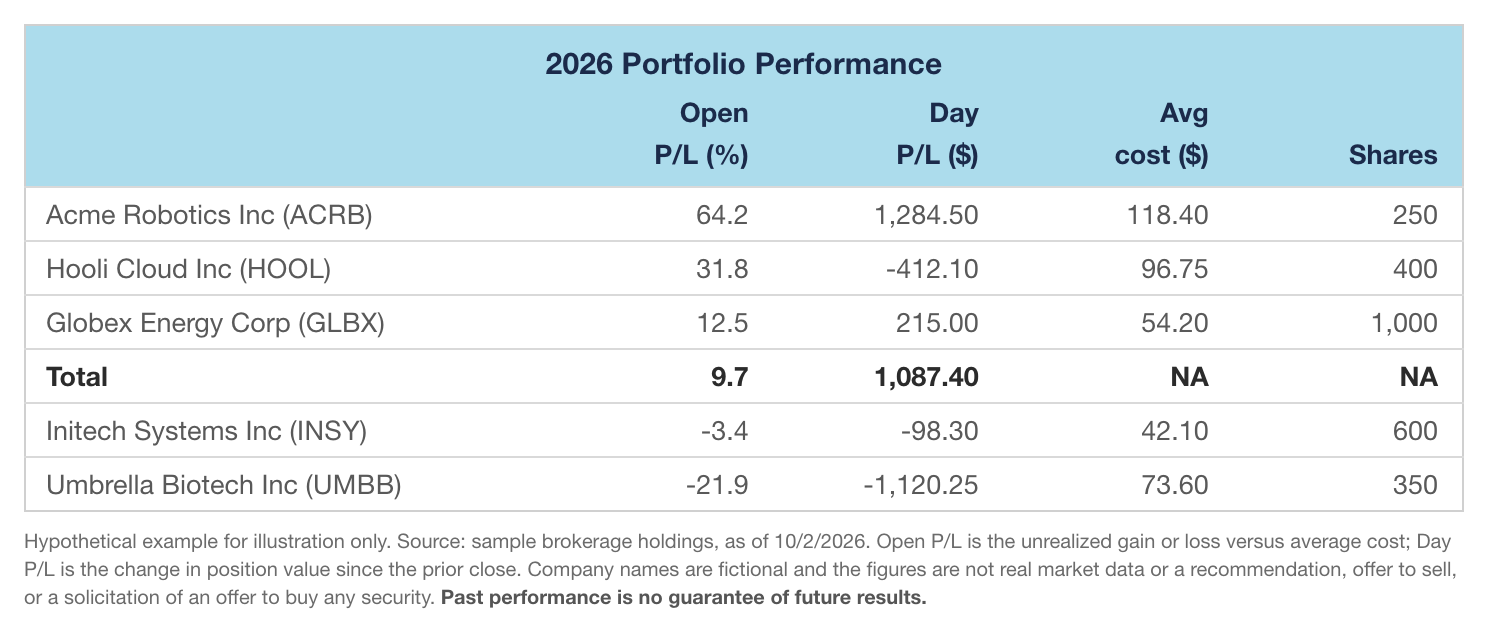
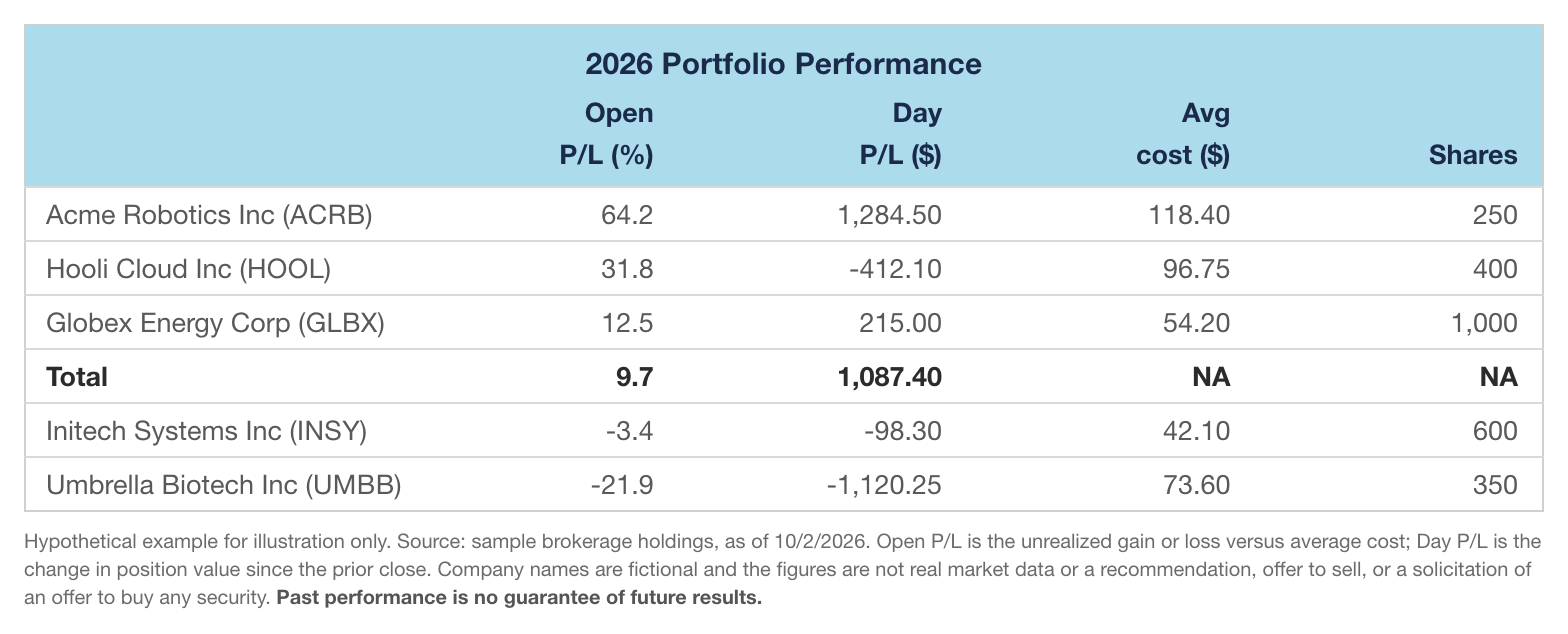
Widen table to 760px and rebalance columns so rank headers no longer collide
Columns 37/15/16 -> 30/13/19 (%); docs and examples updated.

diff --git a/examples/holdings_en.html b/examples/holdings_en.html
@@ -4,9 +4,9 @@ body { margin:0; background:#fff; font-family:"Inter", "Helvetica Neue", Helveti
 tbody td:not(.name) { font-feature-settings:"tnum" 1, "lnum" 1; }
 .sgn { font-feature-settings:"tnum" 0; }
 .tk { font-family:"Inter", "Helvetica Neue", Helvetica, Arial, sans-serif; letter-spacing:0.2px; }
-#wrap { width:720px; padding:12px; background:#fff; }
+#wrap { width:760px; padding:12px; background:#fff; }
 table { width:100%; border-collapse:collapse; border:1px solid #D0D0D0; table-layout:fixed; }
-col.c1 { width:37%; } col.c2 { width:15%; } col.cx { width:16%; }
+col.c1 { width:30%; } col.c2 { width:13%; } col.cx { width:19%; }
 thead th { background:#ACDCEC; color:#1B2A4A; font-weight:600; font-size:13.5px; line-height:1.25;
            text-align:right; padding:2px 12px 2px 10px; vertical-align:bottom; white-space:nowrap; }
 thead tr.title th { text-align:center; font-size:15px; font-weight:700; padding:9px 10px 5px; letter-spacing:0.1px; }

diff --git a/examples/holdings_zh.html b/examples/holdings_zh.html
@@ -4,9 +4,9 @@ body { margin:0; background:#fff; font-family:"Inter", "Helvetica Neue", Helveti
 tbody td:not(.name) { font-feature-settings:"tnum" 1, "lnum" 1; }
 .sgn { font-feature-settings:"tnum" 0; }
 .tk { font-family:"Inter", "Helvetica Neue", Helvetica, Arial, sans-serif; letter-spacing:0.2px; }
-#wrap { width:720px; padding:12px; background:#fff; }
+#wrap { width:760px; padding:12px; background:#fff; }
 table { width:100%; border-collapse:collapse; border:1px solid #D0D0D0; table-layout:fixed; }
-col.c1 { width:37%; } col.c2 { width:15%; } col.cx { width:16%; }
+col.c1 { width:30%; } col.c2 { width:13%; } col.cx { width:19%; }
 thead th { background:#ACDCEC; color:#1B2A4A; font-weight:600; font-size:13.5px; line-height:1.25;
            text-align:right; padding:2px 12px 2px 10px; vertical-align:bottom; white-space:nowrap; }
 thead tr.title th { text-align:center; font-size:15px; font-weight:700; padding:9px 10px 5px; letter-spacing:0.1px; }

diff --git a/examples/neural9_en.html b/examples/neural9_en.html
@@ -4,9 +4,9 @@ body { margin:0; background:#fff; font-family:"Inter", "Helvetica Neue", Helveti
 tbody td:not(.name) { font-feature-settings:"tnum" 1, "lnum" 1; }
 .sgn { font-feature-settings:"tnum" 0; }
 .tk { font-family:"Inter", "Helvetica Neue", Helvetica, Arial, sans-serif; letter-spacing:0.2px; }
-#wrap { width:720px; padding:12px; background:#fff; }
+#wrap { width:760px; padding:12px; background:#fff; }
 table { width:100%; border-collapse:collapse; border:1px solid #D0D0D0; table-layout:fixed; }
-col.c1 { width:37%; } col.c2 { width:15%; } col.cx { width:16%; }
+col.c1 { width:30%; } col.c2 { width:13%; } col.cx { width:19%; }
 thead th { background:#ACDCEC; color:#1B2A4A; font-weight:600; font-size:13.5px; line-height:1.25;
            text-align:right; padding:2px 12px 2px 10px; vertical-align:bottom; white-space:nowrap; }
 thead tr.title th { text-align:center; font-size:15px; font-weight:700; padding:9px 10px 5px; letter-spacing:0.1px; }

diff --git a/examples/neural9_zh.html b/examples/neural9_zh.html
@@ -4,9 +4,9 @@ body { margin:0; background:#fff; font-family:"Inter", "Helvetica Neue", Helveti
 tbody td:not(.name) { font-feature-settings:"tnum" 1, "lnum" 1; }
 .sgn { font-feature-settings:"tnum" 0; }
 .tk { font-family:"Inter", "Helvetica Neue", Helvetica, Arial, sans-serif; letter-spacing:0.2px; }
-#wrap { width:720px; padding:12px; background:#fff; }
+#wrap { width:760px; padding:12px; background:#fff; }
 table { width:100%; border-collapse:collapse; border:1px solid #D0D0D0; table-layout:fixed; }
-col.c1 { width:37%; } col.c2 { width:15%; } col.cx { width:16%; }
+col.c1 { width:30%; } col.c2 { width:13%; } col.cx { width:19%; }
 thead th { background:#ACDCEC; color:#1B2A4A; font-weight:600; font-size:13.5px; line-height:1.25;
            text-align:right; padding:2px 12px 2px 10px; vertical-align:bottom; white-space:nowrap; }
 thead tr.title th { text-align:center; font-size:15px; font-weight:700; padding:9px 10px 5px; letter-spacing:0.1px; }

diff --git a/examples/watchlist_en.html b/examples/watchlist_en.html
@@ -4,9 +4,9 @@ body { margin:0; background:#fff; font-family:"Inter", "Helvetica Neue", Helveti
 tbody td:not(.name) { font-feature-settings:"tnum" 1, "lnum" 1; }
 .sgn { font-feature-settings:"tnum" 0; }
 .tk { font-family:"Inter", "Helvetica Neue", Helvetica, Arial, sans-serif; letter-spacing:0.2px; }
-#wrap { width:720px; padding:12px; background:#fff; }
+#wrap { width:760px; padding:12px; background:#fff; }
 table { width:100%; border-collapse:collapse; border:1px solid #D0D0D0; table-layout:fixed; }
-col.c1 { width:37%; } col.c2 { width:15%; } col.cx { width:16%; }
+col.c1 { width:30%; } col.c2 { width:13%; } col.cx { width:19%; }
 thead th { background:#ACDCEC; color:#1B2A4A; font-weight:600; font-size:13.5px; line-height:1.25;
            text-align:right; padding:2px 12px 2px 10px; vertical-align:bottom; white-space:nowrap; }
 thead tr.title th { text-align:center; font-size:15px; font-weight:700; padding:9px 10px 5px; letter-spacing:0.1px; }

diff --git a/examples/watchlist_zh.html b/examples/watchlist_zh.html
@@ -4,9 +4,9 @@ body { margin:0; background:#fff; font-family:"Inter", "Helvetica Neue", Helveti
 tbody td:not(.name) { font-feature-settings:"tnum" 1, "lnum" 1; }
 .sgn { font-feature-settings:"tnum" 0; }
 .tk { font-family:"Inter", "Helvetica Neue", Helvetica, Arial, sans-serif; letter-spacing:0.2px; }
-#wrap { width:720px; padding:12px; background:#fff; }
+#wrap { width:760px; padding:12px; background:#fff; }
 table { width:100%; border-collapse:collapse; border:1px solid #D0D0D0; table-layout:fixed; }
-col.c1 { width:37%; } col.c2 { width:15%; } col.cx { width:16%; }
+col.c1 { width:30%; } col.c2 { width:13%; } col.cx { width:19%; }
 thead th { background:#ACDCEC; color:#1B2A4A; font-weight:600; font-size:13.5px; line-height:1.25;
            text-align:right; padding:2px 12px 2px 10px; vertical-align:bottom; white-space:nowrap; }
 thead tr.title th { text-align:center; font-size:15px; font-weight:700; padding:9px 10px 5px; letter-spacing:0.1px; }

diff --git a/render_table.py b/render_table.py
@@ -57,9 +57,9 @@ body {{ margin:0; background:#fff; font-family:{FONT_STACK}; -webkit-font-smooth
 tbody td:not(.name) {{ font-feature-settings:"tnum" 1, "lnum" 1; }}
 .sgn {{ font-feature-settings:"tnum" 0; }}
 .tk {{ font-family:"Inter", "Helvetica Neue", Helvetica, Arial, sans-serif; letter-spacing:0.2px; }}
-#wrap {{ width:720px; padding:12px; background:#fff; }}
+#wrap {{ width:760px; padding:12px; background:#fff; }}
 table {{ width:100%; border-collapse:collapse; border:1px solid #D0D0D0; table-layout:fixed; }}
-col.c1 {{ width:37%; }} col.c2 {{ width:15%; }} col.cx {{ width:16%; }}
+col.c1 {{ width:30%; }} col.c2 {{ width:13%; }} col.cx {{ width:19%; }}
 thead th {{ background:#ACDCEC; color:#1B2A4A; font-weight:600; font-size:13.5px; line-height:1.25;
            text-align:right; padding:2px 12px 2px 10px; vertical-align:bottom; white-space:nowrap; }}
 thead tr.title th {{ text-align:center; font-size:15px; font-weight:700; padding:9px 10px 5px; letter-spacing:0.1px; }}

diff --git a/SKILL.en.md b/SKILL.en.md
@@ -78,9 +78,9 @@ Ready-made "YTD %" figures on web pages mostly come from aggregators and are not
 ### Columns
 | # | Alignment | Width | Content |
 |---|---|---|---|
-| 1 | Left | 37% | `{name} ({TICKER})`; header left blank |
-| 2 | Right | 15% | Primary metric (the sort key) |
-| 3–5 | Right | 16% each | Remaining metrics |
+| 1 | Left | 30% | `{name} ({TICKER})`; header left blank |
+| 2 | Right | 13% | Primary metric (the sort key) |
+| 3–5 | Right | 19% each | Remaining metrics |
 
 - **Column 1 must include the ticker**, in both language versions: `Micron Technology Inc (MU)`, `美光科技 (MU)`
 - Benchmark and total rows carry no ticker
@@ -128,7 +128,7 @@ Ready-made "YTD %" figures on web pages mostly come from aggregators and are not
 - For modes B and C, replace the metric definitions in the middle with this table's metrics; if there is no index row, drop the "Indexes are unmanaged…" sentence
 - The Chinese version is a full translation, ending in the bold sentence 「过往业绩不代表未来表现。」
 
-## Visual parameters (table width 720px; colours are estimates)
+## Visual parameters (table width 760px; colours are estimates)
 | Element | Value |
 |---|---|
 | Latin/number font | `Inter`, falling back to `Helvetica Neue`, Helvetica, Arial |

diff --git a/SKILL.md b/SKILL.md
@@ -81,9 +81,9 @@ description: 把股票清单、券商持仓截图或现成的涨跌幅/排名数
 ### 列
 | # | 对齐 | 宽度 | 内容 |
 |---|---|---|---|
-| 1 | 左 | 37% | `{名称} ({TICKER})`，表头留空 |
-| 2 | 右 | 15% | 主指标（排序依据） |
-| 3–5 | 右 | 各 16% | 其余指标 |
+| 1 | 左 | 30% | `{名称} ({TICKER})`，表头留空 |
+| 2 | 右 | 13% | 主指标（排序依据） |
+| 3–5 | 右 | 各 19% | 其余指标 |
 
 - **第 1 列必须带股票代码**，中英文版都要：`Micron Technology Inc (MU)`、`美光科技 (MU)`
 - 基准行、合计行不带代码
@@ -131,7 +131,7 @@ description: 把股票清单、券商持仓截图或现成的涨跌幅/排名数
 - 模式 B、C 把中间的指标定义换成本表的指标；没有指数行时去掉「Indexes are unmanaged…」那句
 - 中文版完整翻译，最后一句为加粗的「过往业绩不代表未来表现。」
 
-## 视觉参数（表宽 720px，取色为估计值）
+## 视觉参数（表宽 760px，取色为估计值）
 | 元素 | 值 |
 |---|---|
 | 英文/数字字体 | `Inter`，回退 `Helvetica Neue`, Helvetica, Arial |
